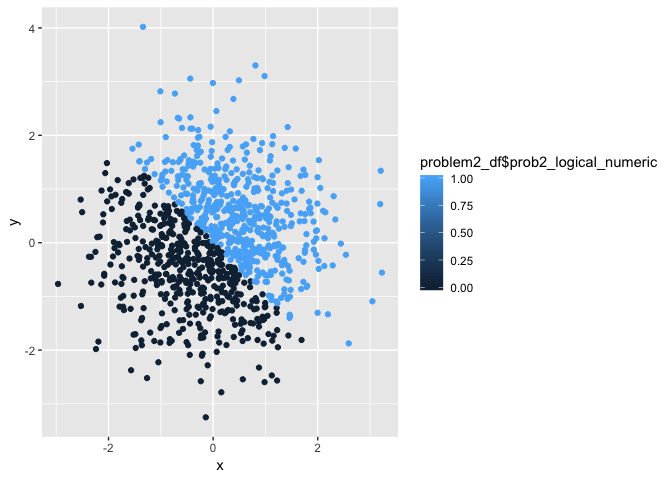
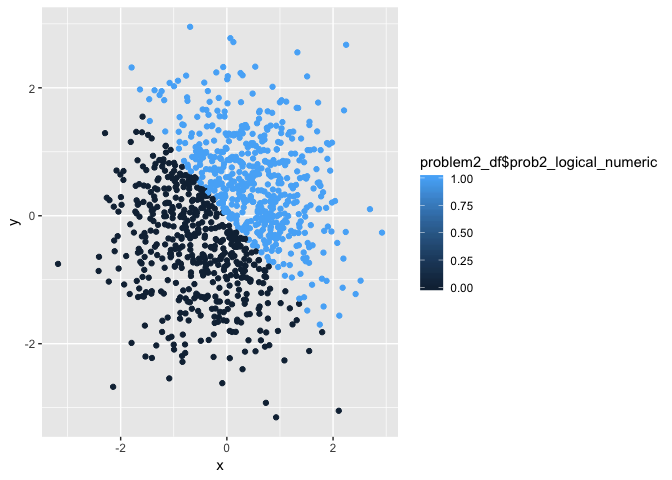
Last commit after changing part of problem two.

diff --git a/p8105_hw1_edm2152.md b/p8105_hw1_edm2152.md
@@ -24,9 +24,9 @@ problem1_df = tibble(
 
 Below I try to take the mean of each of the four variables:
 
-The mean of the random sample variable is 2.0774319.
+The mean of the random sample variable is 2.4522228.
 
-The mean of the logical vector variable is 0.6.
+The mean of the logical vector variable is 0.5.
 
 The mean of the character vector variable is NA (this will not work).
 
@@ -81,7 +81,7 @@ problem2_df = tibble(
 )
 ```
 
-The problem 2 dataset contains 1000 rows (observations) and 5 columns (variables). The mean of x is 0.0259675 and the median of x is 0.0407023. The proportion of cases for which the logical vector is TRUE is
+The problem 2 dataset contains 1000 rows (observations) and 5 columns (variables). The mean of x is -0.0026112 and the median of x is 0.0135086. The proportion of cases for which the logical vector is TRUE is 0.513.
 
 First scatterplot of y vs x (color is logical variable):
 
